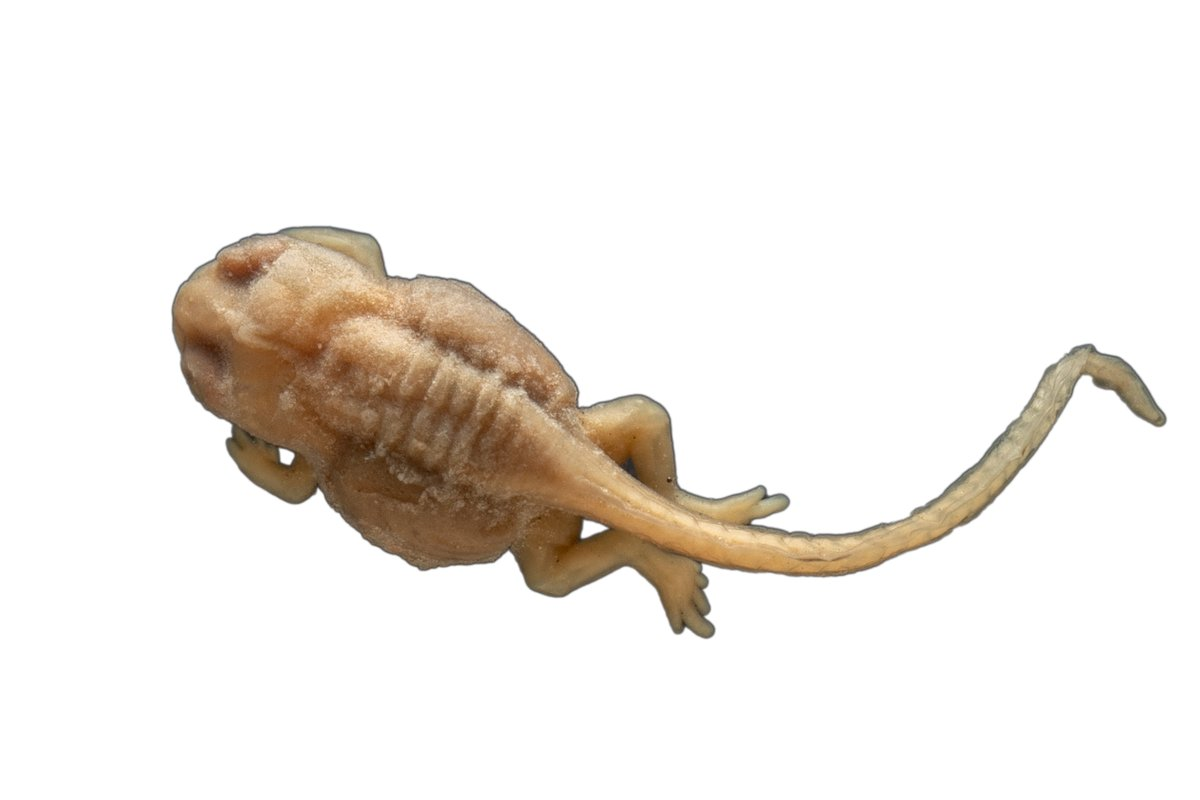
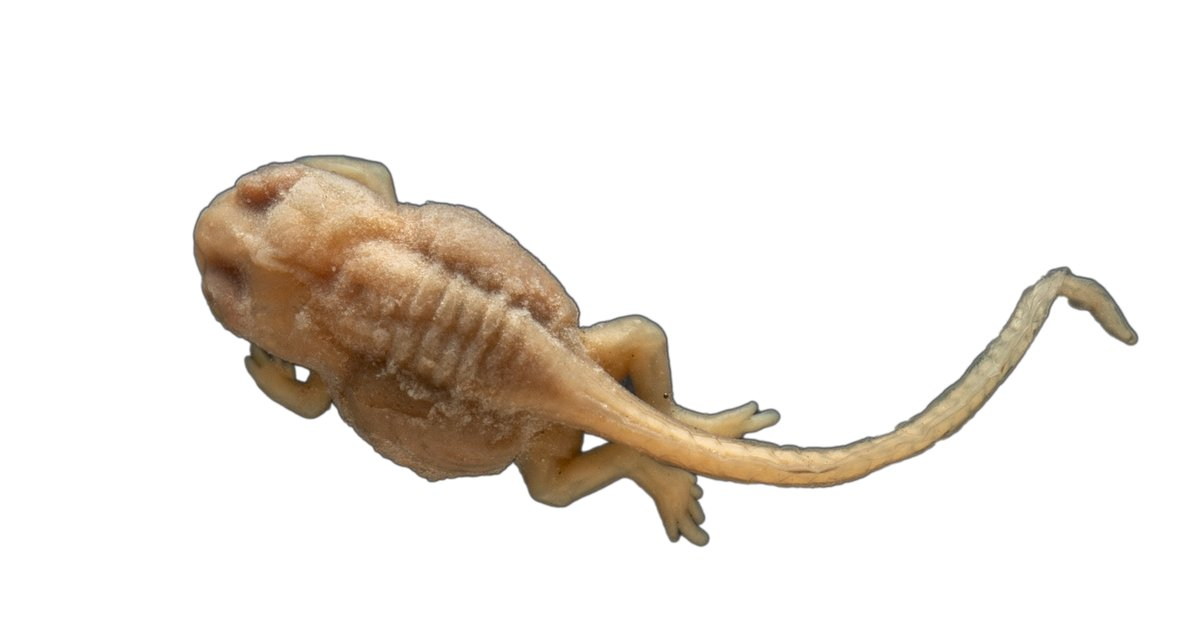
Tadpole FAQ: add Jack's new photos (glass frog with eggs, Phyllobates carrying tadpoles, Philautus eggs) and Sooglossus adults
Adds a .photo-aside layout for a portrait photo beside text and a .wide
(15:8) diorama variant. Still a draft.

Claude-Session: https://claude.ai/code/session_01NXwiTWapqZLYBTXVDkuwnC

Changed region(s): [[0.1233, 0.2188, 0.9867, 0.875]]

diff --git a/_rules.scss b/_rules.scss
@@ -220,6 +220,7 @@ div.quarto-post .listing-description { color: $ink-soft; }
    Three photos to a row; add .four for four, or .pairs for two columns.
    Add .long when the captions run to a sentence or two: on phones each photo
    then gets its own row, with the caption beside it instead of squeezed under.
+   Add .wide for 15:8 tiles (cut to 15:8 beforehand) instead of 3:2.
    The photos are cut to 3:2 beforehand, so nothing gets cropped here. */
 .diorama {
   display: grid;
@@ -262,6 +263,38 @@ div.quarto-post .listing-description { color: $ink-soft; }
   color: $ink-soft;
 }
 .diorama figcaption em { color: $ink; }
+.diorama.wide img { aspect-ratio: 15 / 8; }
+.diorama.pairs.wide { max-width: none; }
+
+/* A single portrait photo beside a paragraph or two (stacks on phones):
+
+     ::::: {.photo-aside}
+     :::: {.aside-text}
+     Paragraphs...
+     ::::
+     ![Caption](../assets/images/faq/x.jpg){fig-alt="..."}
+     :::::
+*/
+.photo-aside {
+  display: grid;
+  grid-template-columns: minmax(0, 1fr) 34%;
+  gap: 1.5rem;
+  align-items: start;
+  margin: 1.2rem 0 1.8rem;
+}
+.photo-aside .aside-text > p:last-child { margin-bottom: 0; }
+.photo-aside .quarto-figure,
+.photo-aside figure,
+.photo-aside figure p { margin: 0; }
+.photo-aside img { display: block; width: 100%; height: auto; border-radius: 2px; }
+.photo-aside figcaption {
+  margin-top: 0.4rem;
+  font-size: 0.84rem;
+  line-height: 1.35;
+  text-align: left;
+  color: $ink-soft;
+}
+.photo-aside figcaption em { color: $ink; }
 @media (max-width: 620px) {
   .diorama { gap: 0.8rem 0.5rem; }
   .diorama.four { grid-template-columns: repeat(2, minmax(0, 1fr)); }
@@ -275,6 +308,8 @@ div.quarto-post .listing-description { color: $ink-soft; }
     align-items: center;
   }
   .diorama.long figcaption { margin-top: 0; font-size: 0.8rem; }
+  .photo-aside { grid-template-columns: minmax(0, 1fr); gap: 1.1rem; }
+  .photo-aside .quarto-figure { max-width: 300px; margin: 0 auto; }
 }
 
 /* --- Footer --------------------------------------------------------------- */
